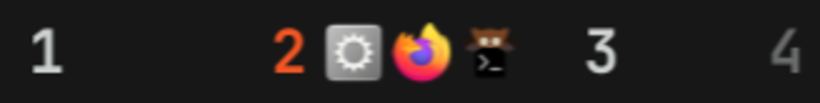
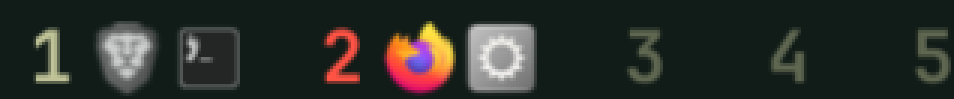
Show the widget at the top of the README
Replace the root preview with a shot that covers five workspaces, two of
them occupied, so the grouping and the colour-only-where-focused rule are
both visible. Scaled 3x nearest-neighbour to stay crisp at README size.

Claude-Session: https://claude.ai/code/session_013WmtG9SJ62ULUERmLeyjUD

diff --git a/README.md b/README.md
@@ -1,5 +1,7 @@
 # Workspace Icons
 
+![Workspace Icons in the Omarchy bar: workspace 1 holds Brave and a terminal, the focused workspace 2 holds Firefox and a settings app in full colour, workspaces 3 to 5 are empty](preview.png)
+
 An Omarchy shell bar widget that pairs each workspace **number** with the
 **icons of the apps open on that workspace**, grouped so the eye can tell which
 icons belong to which number.
